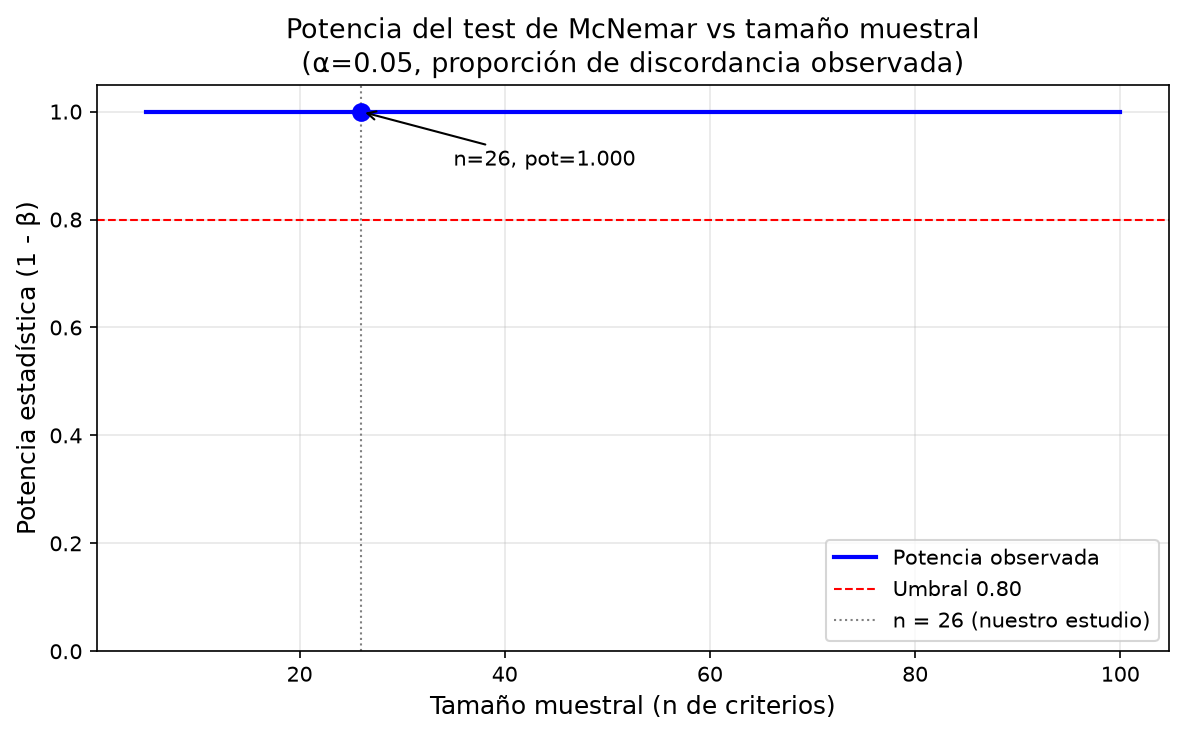
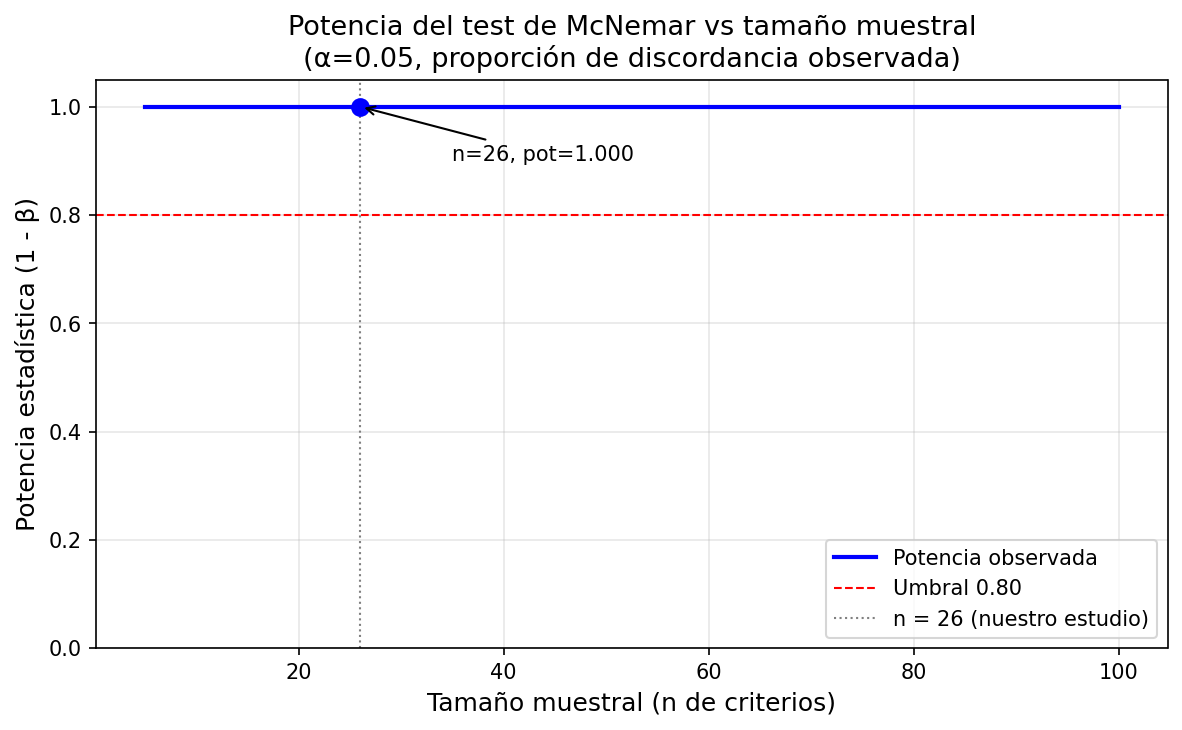
style: elimina guiones largos del paquete de datos (desviaciones.md, READMEs, power_calc_mcnemar) y regenera checksums

diff --git a/07_Datos/scripts/power_calc_mcnemar.py b/07_Datos/scripts/power_calc_mcnemar.py
@@ -194,7 +194,7 @@ def main():
     out_dir.mkdir(parents=True, exist_ok=True)
 
     with open(out_dir / "power_calc_mcnemar.txt", "w", encoding="utf-8") as f:
-        f.write("Cálculo de potencia — Test de McNemar (legal-first)\n")
+        f.write("Cálculo de potencia - Test de McNemar (legal-first)\n")
         f.write("=" * 55 + "\n\n")
         f.write(f"Criterios evaluados (n):        {n}\n")
         f.write(f"Discordancia (b: 0→1):          {b}\n")

diff --git a/02_Evidencias/Codificacion_Tematica/readme.md b/02_Evidencias/Codificacion_Tematica/readme.md
@@ -1,4 +1,4 @@
-# Codificación Temática — Sistema de Gestión Agrícola con IA (SGA)
+# Codificación Temática - Sistema de Gestión Agrícola con IA (SGA)
 
 Carpeta de codificación temática cerrada de las entrevistas del proyecto ACERS (SGA):
 trazabilidad de producción de verde y cacao.

diff --git a/07_Datos/README_datos.md b/07_Datos/README_datos.md
@@ -1,4 +1,4 @@
-# README_datos — Paquete de datos (07_Datos)
+# README_datos - Paquete de datos (07_Datos)
 
 Este paquete contiene los datos crudos, el código de análisis y los resultados
 del componente empírico del proyecto ACERS (Sistema de Gestión Agrícola con IA).
